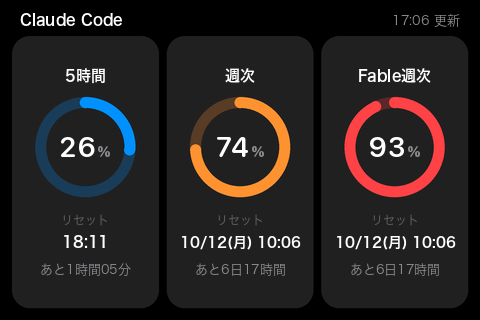
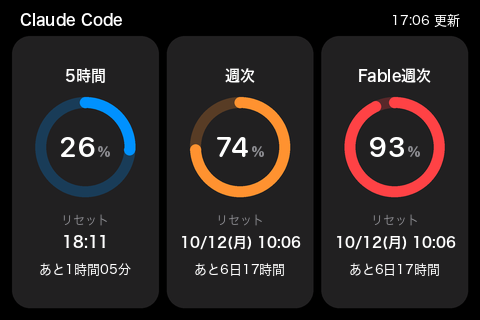
fix(gauge): 更新時刻と残り時間を白にし、「リセット」を明るくし、小さい数字の「4」の崩れを直す
- 実機を見たユーザーの指示で、右上の更新時刻と各カードの「あと…」をリセット日時と同じ白（Label）に、「リセット」を Gray (2) から Gray にする
- ヒラギノ角ゴシック W3 は 12・13 ピクセルでヒンティングにより「4」の横棒が消える。13 ピクセル以下になりうる文字を W4（render.SMALL_WEIGHT）で書く。横棒の画面の取得失敗の文言も同じ
- 「4」の横棒が残ることを確かめるテストを足す（W3 に戻すと 12・13 ピクセルで失敗する）
- README の画像（gauge.png）を作り直す

diff --git a/claude_usage_display/gauge.py b/claude_usage_display/gauge.py
@@ -18,7 +18,8 @@ from functools import lru_cache
 
 from PIL import Image, ImageDraw, ImageFont
 
-from .render import CRITICAL_AT, HEIGHT, JST, WARNING_AT, WEEKDAYS, WIDTH, fit_font, font, format_remaining
+from .render import (CRITICAL_AT, HEIGHT, JST, SMALL_WEIGHT, WARNING_AT, WEEKDAYS, WIDTH, fit_font, font,
+                     format_remaining)
 from .usage import Meter, Snapshot
 
 SCALE = 4
@@ -29,7 +30,6 @@ BACKGROUND = (0, 0, 0)
 CARD = (33, 32, 33)
 LABEL = (255, 255, 255)
 SECONDARY = (142, 142, 147)  # Gray
-TERTIARY = (99, 99, 102)     # Gray (2)
 BLUE = (0, 145, 255)
 ORANGE = (255, 146, 48)
 RED = (255, 66, 69)
@@ -101,7 +101,7 @@ def content_rows() -> tuple[float, float, float, float, float, float]:
     上端は見出しの字の上端、下端は残り時間の字の下端で、どちらもフォントの実寸で測る。
     """
     ascent = -font(SUBHEAD, 6).getbbox("時", anchor="ls")[1]
-    descent = font(FOOTNOTE, 3).getbbox("あと", anchor="ls")[3]
+    descent = font(FOOTNOTE, SMALL_WEIGHT).getbbox("あと", anchor="ls")[3]
     label = ascent
     ring_center = label + 16 + RING_RADIUS
     caption = ring_center + RING_RADIUS + 28
@@ -186,21 +186,21 @@ def render(snapshot: Snapshot | None, now: datetime, status: str | None = None,
     image = shapes.finish()
     draw = ImageDraw.Draw(image)
 
-    small = font(FOOTNOTE, 3)
+    small = font(FOOTNOTE, SMALL_WEIGHT)
     fetched = f"{snapshot.fetched_at.astimezone(JST):%H:%M}" if snapshot else ""
     if status:
         when = f"{fetched} 時点" if snapshot else ""
-        draw.text((WIDTH - HEADER_INSET, HEADER_BASELINE), when, font=small, fill=SECONDARY, anchor="rs")
+        draw.text((WIDTH - HEADER_INSET, HEADER_BASELINE), when, font=small, fill=LABEL, anchor="rs")
         draw.text((badge[0], badge[1] + 4.5), "!", font=rounded(CAPTION1, "Bold"), fill=BACKGROUND, anchor="ms")
         message_left = HEADER_INSET + 20
         reserved = small.getlength(when) + STATUS_GAP if when else 0
         draw.text((message_left, HEADER_BASELINE), status,
-                  font=fit_font(status, WIDTH - HEADER_INSET - message_left - reserved, FOOTNOTE),
+                  font=fit_font(status, WIDTH - HEADER_INSET - message_left - reserved, FOOTNOTE, SMALL_WEIGHT),
                   fill=ORANGE, anchor="ls")
     else:
         draw.text((HEADER_INSET, HEADER_BASELINE), "Claude Code", font=font(SUBHEAD, 6), fill=LABEL, anchor="ls")
         if snapshot:
-            draw.text((WIDTH - HEADER_INSET, HEADER_BASELINE), f"{fetched} 更新", font=small, fill=SECONDARY,
+            draw.text((WIDTH - HEADER_INSET, HEADER_BASELINE), f"{fetched} 更新", font=small, fill=LABEL,
                       anchor="rs")
 
     inner = CARD_WIDTH - CARD_PADDING * 2
@@ -210,8 +210,8 @@ def render(snapshot: Snapshot | None, now: datetime, status: str | None = None,
         percent = None if meter.percent is None else max(0.0, meter.percent)
         _value(draw, cx, origin + ring_y + 10, percent)
         when, remain = reset_lines(meter.resets_at, now)
-        draw.text((cx, origin + caption_y), "リセット", font=font(CAPTION1, 3), fill=TERTIARY, anchor="ms")
+        draw.text((cx, origin + caption_y), "リセット", font=font(CAPTION1, 3), fill=SECONDARY, anchor="ms")
         draw.text((cx, origin + when_y), when, font=fit_font(when, inner, SUBHEAD, 6), fill=LABEL, anchor="ms")
-        draw.text((cx, origin + remain_y), remain, font=fit_font(remain, inner, FOOTNOTE), fill=SECONDARY,
+        draw.text((cx, origin + remain_y), remain, font=fit_font(remain, inner, FOOTNOTE, SMALL_WEIGHT), fill=LABEL,
                   anchor="ms")
     return image

diff --git a/tests/test_render.py b/tests/test_render.py
@@ -1,11 +1,15 @@
 import unittest
 from datetime import datetime, timedelta, timezone
 
+from PIL import Image, ImageDraw
+
 from claude_usage_display.render import (
     ACCENT,
     CRITICAL,
     HEIGHT,
     MARGIN_X,
+    MIN_FONT_SIZE,
+    SMALL_WEIGHT,
     STATUS_GAP,
     SURFACE,
     WARNING,
@@ -80,6 +84,23 @@ class RenderTest(unittest.TestCase):
         fitted = fit_font(long_text, 448, 14)
         self.assertLess(fitted.size, 14)
         self.assertLessEqual(fitted.getlength(long_text), 448)
+
+    def test_small_weight_keeps_crossbar_of_four(self):
+        """W3 の 12・13 ピクセルでは「4」の横棒が消え、濃い画素の続く幅が字幅の 0.33〜0.44 になる。"""
+        if not str(getattr(font(14, SMALL_WEIGHT), "path", "")).endswith(".ttc"):
+            self.skipTest("ヒラギノ角ゴシックが無い")
+        for size in range(MIN_FONT_SIZE, 14):
+            image = Image.new("L", (size * 2, size * 2), 0)
+            ImageDraw.Draw(image).text((size // 2, size // 2), "4", font=font(size, SMALL_WEIGHT), fill=255)
+            left, top, right, bottom = image.getbbox()
+            longest = 0
+            for y in range(top, bottom):
+                run = 0
+                for x in range(left, right):
+                    run = run + 1 if image.getpixel((x, y)) >= 128 else 0
+                    longest = max(longest, run)
+            with self.subTest(size=size):
+                self.assertGreaterEqual(longest / (right - left), 0.7)
 
 
 if __name__ == "__main__":

diff --git a/claude_usage_display/render.py b/claude_usage_display/render.py
@@ -39,6 +39,9 @@ BAR_HEIGHT = 16
 BAR_RADIUS = 4
 STATUS_GAP = 12  # 下端の行で、左の理由と右の時刻のあいだに空ける幅
 MIN_FONT_SIZE = 10
+# ヒラギノ角ゴシック W3 は 12・13 ピクセルで、ヒンティングにより「4」の横棒が消える
+# （Pillow 12.3.0・FreeType 2.14.3。W4 は 10〜13 ピクセルで崩れない）。13 ピクセル以下になりうる文字は W4 で書く
+SMALL_WEIGHT = 4
 
 FONT_DIR = "/System/Library/Fonts"
 
@@ -147,8 +150,8 @@ def render(snapshot: Snapshot | None, now: datetime, status: str | None = None,
         when = f"{snapshot.fetched_at.astimezone(JST):%H:%M} 時点" if snapshot else ""
         reserved = small.getlength(when) + STATUS_GAP if when else 0
         message = f"! {status}"
-        draw.text((MARGIN_X, baseline), message, font=fit_font(message, WIDTH - MARGIN_X * 2 - reserved, 14),
-                  fill=WARNING, anchor="ls")
+        draw.text((MARGIN_X, baseline), message,
+                  font=fit_font(message, WIDTH - MARGIN_X * 2 - reserved, 14, SMALL_WEIGHT), fill=WARNING, anchor="ls")
         if when:
             draw.text((WIDTH - MARGIN_X, baseline), when, font=small, fill=INK_MUTED, anchor="rs")
     else:

diff --git a/tests/test_gauge.py b/tests/test_gauge.py
@@ -87,7 +87,7 @@ class GaugeRenderTest(unittest.TestCase):
         header = range(0, gauge.CARD_TOP - 2)
         inked = {x for x in range(WIDTH) for y in header if image.getpixel((x, y)) != gauge.BACKGROUND}
         self.assertFalse({x for x in inked if x > WIDTH - gauge.HEADER_INSET + 1}, "右の余白にはみ出している")
-        time_left = WIDTH - gauge.HEADER_INSET - gauge.font(gauge.FOOTNOTE, 3).getlength("15:24 時点")
+        time_left = WIDTH - gauge.HEADER_INSET - gauge.font(gauge.FOOTNOTE, gauge.SMALL_WEIGHT).getlength("15:24 時点")
         gap = range(round(time_left - gauge.STATUS_GAP) + 2, round(time_left) - 2)
         self.assertFalse(inked & set(gap), "理由と時刻が重なっている")
 
